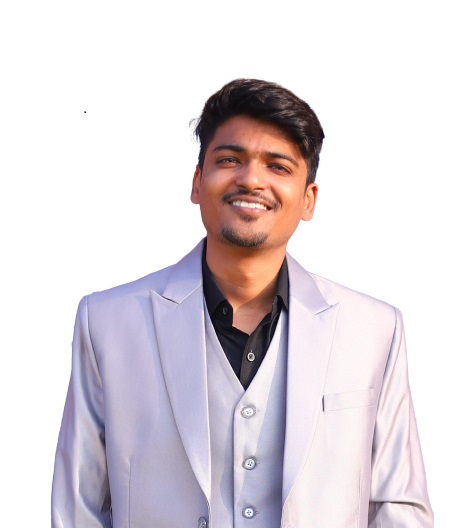
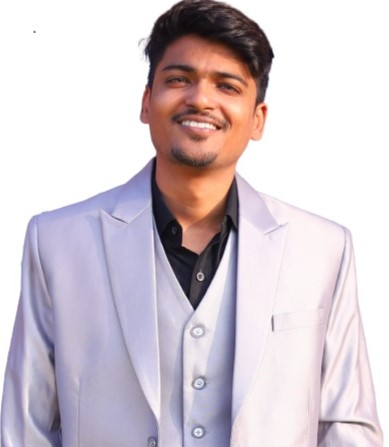
Changes

diff --git a/index.html b/index.html
@@ -599,7 +599,7 @@
 
             <div class="contact_container container grid">
                 <div>
-                    <a href="mailto:@gmail.com" target="_blank">
+                    <a href="mailto:yashkabra143@gmail.com" target="_blank">
                         <div class="contact_info">
                             <i class="uil uil-envelope-alt contact_icon"></i>
                             <div>
@@ -630,7 +630,7 @@
                     </a>
                 </div>
 
-                <form action="https://formspree.io/f/xyyozeaq" class="contact_form grid" id="contact-form" method="POST">
+                <!-- <form action="https://formspree.io/f/xyyozeaq" class="contact_form grid" id="contact-form" method="POST">
                     <div id="alert" class="alert_style"></div>
                     <div class="contact_inputs grid">
                         <div class="contact_content">
@@ -657,7 +657,7 @@
               <i class="uil uil-message button_icon"></i>
             </button>
                     </div>
-                </form>
+                </form> -->
 
             </div>
         </section>
@@ -668,7 +668,7 @@
         <div class="footer_bg">
             <div class="footer_container container grid">
                 <div>
-                    <h1 class="footer_title">Abhishek Tyagi</h1>
+                    <h1 class="footer_title">Yash Kabra</h1>
                 </div>
 
                 <ul class="footer_links">

diff --git a/assets/css/style.css b/assets/css/style.css
@@ -1013,4 +1013,11 @@ button {
   .contact_inputs {
     grid-template-columns: repeat(2, 1fr);
   }
+
+}
+
+.about_container.container.grid img {
+  height: 300px;
+  object-fit: cover;
+  object-position: top;
 }
